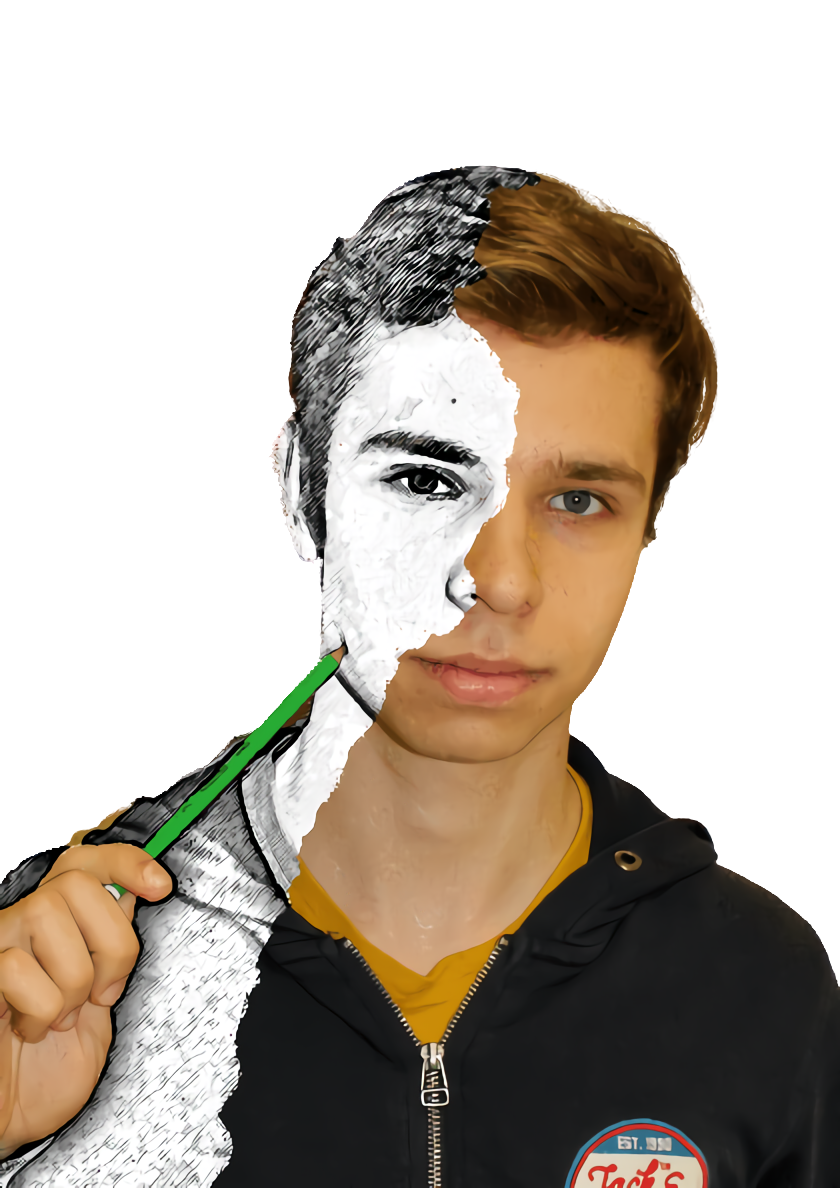
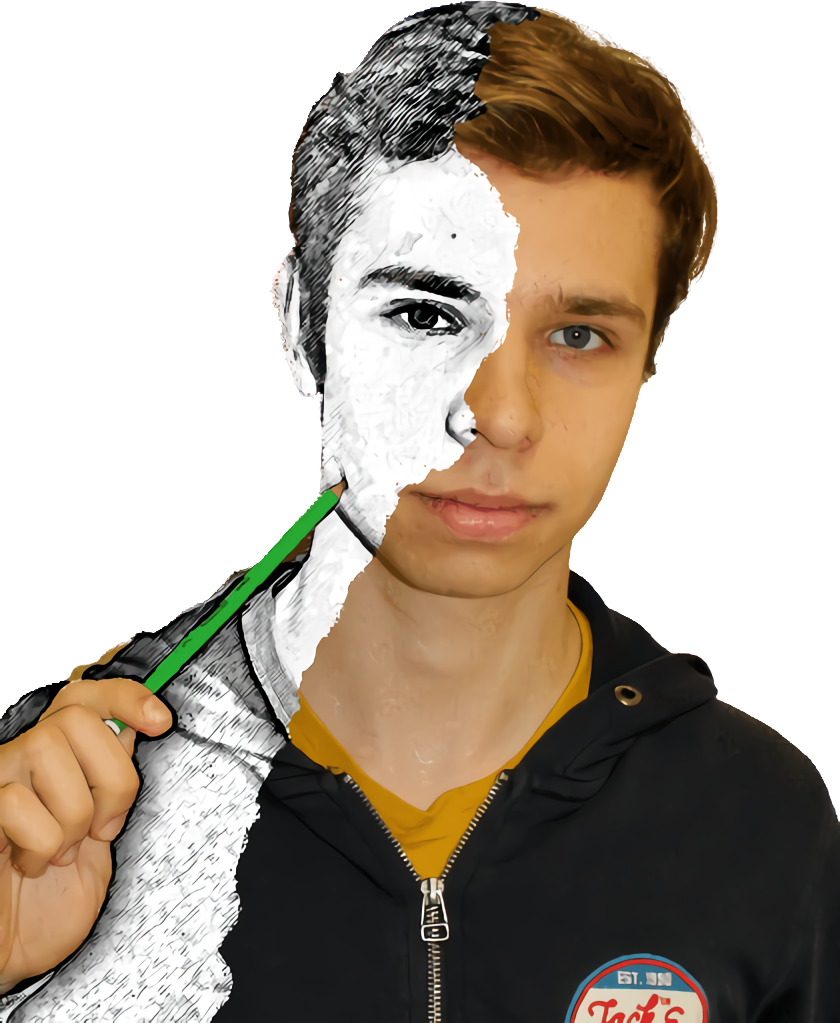
added projects and fixed margins

diff --git a/css/style.css b/css/style.css
@@ -1,42 +1,113 @@
 main {
-    margin: 0 5rem;
-    padding-left: 5%;
+    margin: 0 0 0 5rem;
+    display: flex;
+    flex-direction: column;
 }
 
+
 #home {
-    display: flex;
     align-items: center;
     justify-content: space-between;
     padding-top: 5%;
 }
 
-#home article, #home figure {
+#home article, #home figure, #home {
     display: flex;
-    justify-content: center;
-    align-items: center;
 }
 
 #home article {
-    width: 50%;
-    flex-direction: column;
+    justify-content: center;
+    align-items: flex-end;
     text-align: left;
+    flex-direction: column;
+    width: 50%;
+    padding-right: 10%;
+}
+
+#home article > h1, #home article p  {
+    width: 80%;
+    text-align: left;
+    padding: 1%;
+    line-height: 1.2;
+    color: #6FCF97;
+}
+
+#home article > .white{
+    font-size: 1em;
+    color: rgb(209, 207, 207);
+}
+
+#home article div {
+    width: 80%;
 }
 
 #home figure {
+    justify-content: flex-start;
+    align-items: center;
     width: 50%;
+}
+
+#home button {
+    border-radius: 10px;
+    background-color: #6FCF97;
+    color: white;
+    border: 0;
+    padding: 3%;
+    width: 45%;
+    margin-top: 5%;
+    font-size: 1em;
+    cursor: pointer;
+}
+
+#home button:hover {
+    background-color: #30ce72;
 }
 
 #home img {
     width: 80%;
-
 }
 
-.items {
+#projects {
+    margin-top: 20%;
+    display: flex;
+    background-color: #1b1c22;
+    padding: 2%;
+}
+
+#projects figure {
+    display: flex;
+    justify-content: space-around;
+}
+
+#projects figure img{
+    width: 30%;
+}
+
+
+
+.animate1, .animate2, .animate3, .animate4 {
     opacity: 0;
     transform: translateY(3rem);
     animation: fadeInUp 2s ease forwards;
     animation-delay: 2s;
 }
+
+.animate1 {
+    animation-delay: 1s;
+}
+
+.animate2 {
+    animation-delay: 1.3s;
+}
+
+.animate3 {
+    animation-delay: 1.6s;
+}
+
+.animate4 {
+    animation-delay: 2s;
+}
+
 
 @keyframes fadeInUp {
     to {

diff --git a/index.html b/index.html
@@ -37,7 +37,7 @@
       </li>
 
       <li class="nav-item">
-        <a href="#" class="nav-link">
+        <a href="#projects" class="nav-link">
           <i class="fas fa-tasks hover-color"></i>
           <span class="link-text">Projects</span>
         </a>
@@ -69,12 +69,35 @@
     <section id="home">
       <article>
         <h1 id="typewriter-placeholder"></h1>
-        <p class="items">Ik ben ryan</p>
+        <p class="animate1">My name is</p>
+        <p class="animate2">De Vogel Ryan</p>
+        <p class="white animate3">I am an IT student. I love programming and networking. I hope one day to become a
+          network engineer.</p>
+        <div>
+          <button class="animate4">Contact me</button>
+        </div>
       </article>
       <figure>
-        <img src="img/Photo_into_photo(1).png" alt="profile">
+        <img src="img/profile.png" alt="profile">
       </figure>
     </section>
+
+    <section id="projects">
+      <h1>Projects</h1>
+      <div>
+        <figure>
+          <figcaption>
+            <h2>3D</h2>
+            <p>Lorem ipsum</p>
+          </figcaption>
+          <img src="img/project1.PNG" alt="project1">
+        </figure>
+        <figure>
+          <figcaption></figcaption>
+          <img src="img/project2.PNG" alt="project2">
+        </figure>
+    </section>
+  </main>
   </main>
   <script src="js/script.js"></script>
 </body>

diff --git a/css/master.css b/css/master.css
@@ -1,6 +1,10 @@
 @import url('https://fonts.googleapis.com/css2?family=Roboto:wght@500&display=swap');
 
 
+html {
+    scroll-behavior: smooth;
+}
+
 body {
     margin: 0;
     padding: 0;
@@ -10,7 +14,11 @@ body {
 }
 
 h1 {
-    font-size: 2.5em;
+    font-size: 3.2em;
+}
+
+p {
+    font-size: 2em;
 }
 
 img {

diff --git a/js/script.js b/js/script.js
@@ -2,7 +2,7 @@ window.onload = () => {
 
     var i = 0;
     var txt = "Hello!";
-    var speed = 250;
+    var speed = 200;
 
     function typeWriter(element, text) {
        if (i < text.length) {

diff --git a/css/nav.css b/css/nav.css
@@ -22,6 +22,7 @@ body::-webkit-scrollbar-track {
   background-color: var(--bg-primary);
   transition: width 600ms ease;
   overflow: scroll;
+  z-index: 999;
 }
 
 .navbar-nav {
